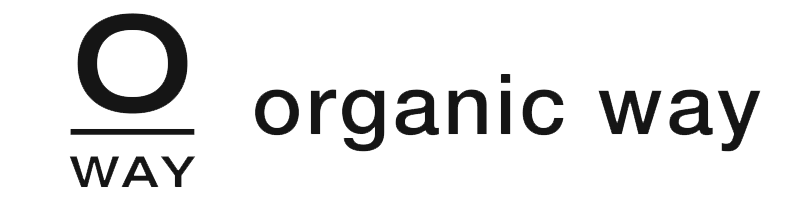
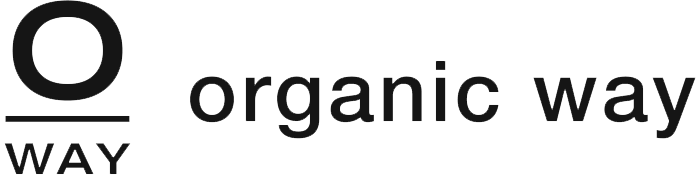
3.2-3

diff --git a/pages/index.html b/pages/index.html
@@ -126,6 +126,7 @@
 
           <div class="genre card col-lg-4 col-md-6 my-2">
             <h2 id="dailyAct">dailyAct</h2>
+            <p>毎日の習慣に</p>
             <div class="card-body">
             <p>健康な毛髪のためのデイリーケア。活力とエネルギーを与えます。</p>
             </div>
@@ -134,6 +135,7 @@
 
           <div class="genre card col-lg-4 col-md-6 my-2">
             <h2 id="moisturizing">moisturizing</h2>
+            <p>ドライヘアに</p>
             <div class="card-body">
             <p>毛髪内部への保湿力を高め栄養も長持ちさせます。 </p>
             </div>
@@ -142,6 +144,7 @@
 
           <div class="genre card col-lg-4 col-md-6 my-2">
             <h2 id="colorUp">colorUp</h2>
+            <p>カラーヘアに</p>
             <div class="card-body">
             <p>カラーリングやハイライトをしたデリケートな毛髪を守り輝きを与え、褪色を防ぎます。</p>
             </div>
@@ -150,6 +153,7 @@
 
           <div class="genre card col-lg-4 col-md-6 my-2">
             <h2 id="xVolume">xVolume</h2>
+            <p>細い髪に</p>
             <div class="card-body">
             <p>毛髪をボリュームをアップさせ、しなやかで軽く仕上げます。</p>
             </div>
@@ -158,6 +162,7 @@
 
           <div class="genre card col-lg-4 col-md-6 my-2">
             <h2 id="beCurly">beCurly</h2>
+            <p>カーリーヘアに</p>
             <div class="card-body">
             <p>カールを美しくみせ、毛髪に弾力と潤いを与えます。 </p>
             </div>
@@ -166,6 +171,7 @@
 
           <div class="genre card col-lg-4 col-md-6 my-2">
             <h2 id="smooth">SMOOTH+</h2>
+            <p>まとまらない髪に</p>
             <div class="card-body">
             <p>光沢のある美しくなめらかな毛髪にコントロールします。 </p>
             </div>
@@ -174,6 +180,7 @@
 
           <div class="genre card col-lg-4 col-md-6 my-2">
             <h2 id="silknglow">silk'n glow</h2>
+            <p>くせ毛に</p>
             <div class="card-body">
             <p>乾燥したスーパーダメージヘアやクセ毛のためのリペアラインです。 </p>
             </div>
@@ -182,6 +189,7 @@
 
           <div class="genre card col-lg-4 col-md-6 my-2">
             <h2 id="rebuilding">rebuilding</h2>
+            <p>ダメージヘアのための、専門的な再建トリートメント。</p>
             <div class="card-body">
             <p>ハイダメージの髪を再構築します</p>
             </div>
@@ -190,6 +198,7 @@
 
           <div class="genre card col-lg-4 col-md-6 my-2">
             <h2 id="hblonde">hblonde</h2>
+            <p>美しいウルトラバイオレットのヘアバス</p>
             <div class="card-body">
             <p>望む髪色を美しく保つためのヘアカラー・コントロールアイテム。</p>
             </div>

diff --git a/dog/index.html b/dog/index.html
@@ -133,7 +133,7 @@
                   <h2>デュエット</h2>
                   <h3>オーナーとパートナーのためのヒーリング・バス</h3>
                   <p>OWAYはオーナー（貴方）とパートナー（愛犬）のために、新しいオーガニックライフ・スタイルを充実させる「Duetto（デュエット）」を発売。パートナーの毛や皮膚に栄養を与えながら清潔にし、オーナーも一緒に楽しめる植物由来のオーガニック・バス（シャンプー）。お互いのスキンシップは、深い絆を生み、共に過ごす時間はさらに愛溢れるものとなるでしょう。</p>
-                  <a href="https://fo-fo.jp/amata-online/products/detail.php?product_id=2247" class="btn btn-primary">購入ページはこちら</a>
+
 
                 </div>
               </div>
@@ -148,6 +148,7 @@
 
             <div class="row">
               <div class="col-lg-4 offset-lg-8 div col-12">
+                <a href="https://fo-fo.jp/amata-online/products/detail.php?product_id=2247" class="btn btn-primary">購入ページはこちら</a>
                 <a href="../index.html" class="btn btn-warning go-back-to-top">トップページへ戻る</a>
               </div>
 

diff --git a/css/style.css b/css/style.css
@@ -74,20 +74,18 @@ body {
 
 
 
-.jumbotron h2.desc {
+.jumbotron h2 {
    font-size:24px;
    /*margin-bottom:4vh;*/
-   position:absolute;
-   top:6%;
-   left:3%;
+
 }
 
-.jumbotron h2.desc span {
-/*  color:white;
-  background:black;*/
+/*.jumbotron h2 span {
+  color:white;
+  background:black;
   padding:5px 10px;
   line-height: 2em;
-}
+}*/
 
 .jumbotron .sect {
   position:fixed;
@@ -502,6 +500,11 @@ body {
     display: block;
   }
 
+  .jumbotron h2 {
+    font-size:1em;
+  }
+
+
   .previous-page {
     position: fixed;
     z-index: 999;
@@ -559,12 +562,6 @@ body {
   .jumbotron {
     object-fit: contain;
   }
-  .jumbotron .top_text {
-  background:black;
-  color: white;
-  padding:5px 10px;
-  font-size:0.55em;
-  }
 
 
   .hair_care, .styling {
@@ -619,7 +616,7 @@ body {
       font-size:28px;
   }
 
-  .jumbotron h2.desc span {
+  .jumbotron h2 {
     font-size:0.8em;
   }
 

diff --git a/index.html b/index.html
@@ -237,14 +237,20 @@ $(function() {
   </nav>
 
   <header class="jumbotron mb-0" >
-    <h2 class="desc"><span>世界最高グレード
-          リアルオーガニックブランド</span></h2>
+
+          <div class="col-lg-6 col-md-8 col-sm-10 col-10">
+
+
+            <p><img src="image/oway-organic-way-logo.png" alt="OWAY ORGANIC WAY" class="img-fluid"></p>
+
+
+          </div>
     <div class="container h-100">
 
       <div class="row h-100 align-items-center">
         <div class="col-12 text-center">
 
-          <h1><img src="image/oway-organic-way.png" alt="OWAY ORGANIC WAY" class="img-fluid top-logo"></h1>
+
           <!-- <h3><span class="top_text">世界最高レベルのサロンオーガニックブランド</span></h3> -->
 
         </div>
